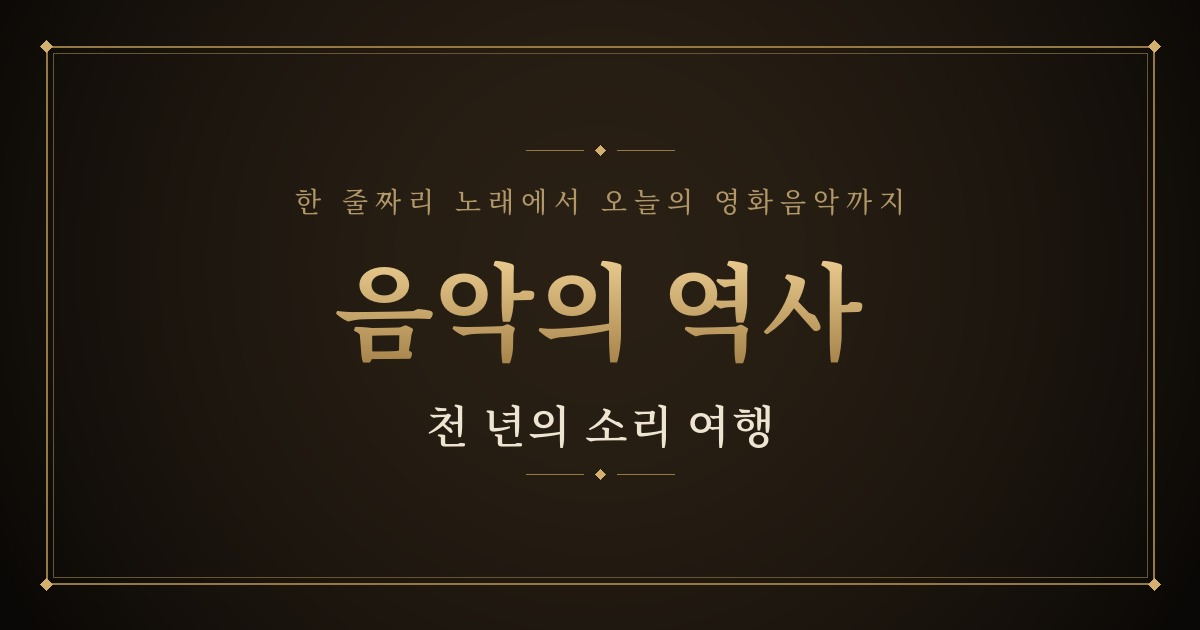
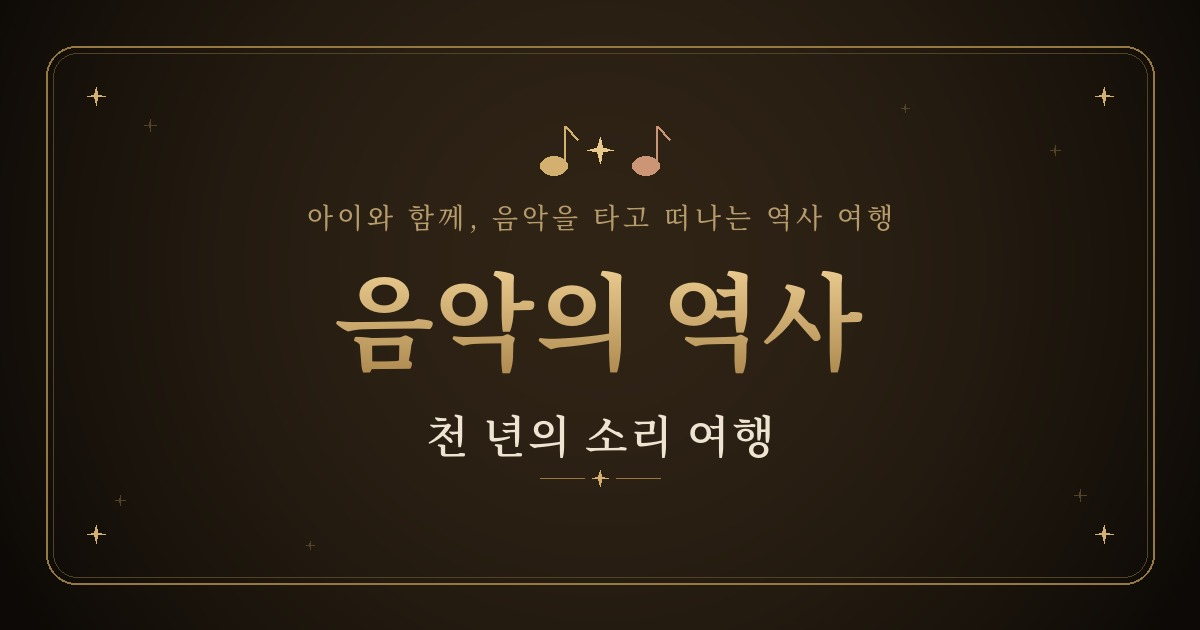
Add files via upload

diff --git a/index.html b/index.html
@@ -92,6 +92,12 @@
   .page-turn .pt-text{display:flex;flex-direction:column;line-height:1.3;text-align:center}
   .page-turn .pt-label{font-family:var(--serif-ko);font-size:11px;letter-spacing:.24em;color:var(--gold)}
   .page-turn .pt-title{font-family:var(--serif-ko);font-size:15px;color:var(--cream);margin-top:2px}
+  .booknav{display:flex;justify-content:center;flex-wrap:wrap;gap:8px;margin:0 auto 30px;max-width:600px}
+  .booknav .bn{font-family:var(--serif-ko);font-size:12.5px;color:var(--cream-dim);text-decoration:none;padding:7px 15px;border:1px solid var(--line-soft);border-radius:100px;background:rgba(201,162,91,0.04);transition:border-color .3s,background .3s,color .3s;white-space:nowrap}
+  .booknav .bn b{font-family:var(--serif-la);color:var(--gold);font-weight:600;margin-right:4px}
+  .booknav a.bn:hover{border-color:var(--gold-deep);background:rgba(201,162,91,0.1);color:var(--cream)}
+  .booknav .bn.cur{background:linear-gradient(180deg,rgba(201,162,91,0.18),rgba(201,162,91,0.05));border-color:var(--gold-deep);color:var(--cream)}
+  .booknav .bn.cur b{color:var(--gold-bright)}
   .howto-wrap{text-align:center;margin-top:34px}
   .howto{font-size:13px;color:var(--muted);text-align:center;margin:0 auto;padding:12px 18px;border:1px solid var(--line-soft);border-radius:100px;display:inline-block}
   .howto b{color:var(--gold);font-weight:500}
@@ -209,21 +215,42 @@
   .dl-btn:hover{background:rgba(201,162,91,0.16);border-color:var(--gold-deep);color:var(--gold-bright)}
   .dl-note{font-size:11px;color:var(--muted);margin-top:10px;line-height:1.7}
   @media print{
+    @page{margin:14mm}
     body{background:#fff!important}
     body::before,body::after{display:none!important}
-    .dl-bar,.page-turn,.howto-wrap,.memorial-tag,.ch-toggle,.eq,.pseek,.pcontrols,.player,.player-slot,.deep-more,.thumb,.ornament{display:none!important}
-    .wrap{max-width:none;padding:0}
-    .wrap, .wrap *{color:#2a2118!important;text-shadow:none!important;background:transparent!important}
-    .ch-latin,.ch-ko,.foot-quote .big,.ask-h,.bridge-go,.tracks-label,.concept-cap{color:#7a5a1f!important}
+    /* 공통: 인터랙션·영상·장식 숨김 */
+    .booknav,.dl-bar,.page-turn,.howto-wrap,.memorial-tag,.ch-toggle,.eq,.player,.player-slot,.thumb,.t-media,.t-title,.ornament,.ov-video,.ribbon,.reveal-btn,.mw-echo,.mywrite{display:none!important}
+    .wrap{max-width:none!important;padding:0!important}
+    .wrap,.wrap *{color:#2a2118!important;text-shadow:none!important;background:transparent!important}
+    .ch-latin,.ch-ko,.foot-quote .big,.q-cat,.bridge-go,.ov-title,.joy,.concept-cap,.thought-by{color:#7a5a1f!important}
+    .era-meta,.em-years{color:#8a6a30!important}
+    .t-sub{color:#5f5038!important}
     .tracks{max-height:none!important;overflow:visible!important}
-    .deep-detail{max-height:none!important;overflow:visible!important}
+    .reveal{max-height:none!important;overflow:visible!important}
+    .hint-text{max-height:none!important;overflow:visible!important}
     .chapter{break-inside:avoid}
-    .deep-inner,.ask,.bridge,.concept{border-color:#c9a25b!important}
-    .t-sub{color:#6a5a40!important}
-    .concept{background:#faf6ee!important}
-    body.cardmode header .epigraph,body.cardmode .intro,body.cardmode .latin-title,body.cardmode .thought,body.cardmode footer{display:none!important}
-    body.cardmode .chapter{page-break-after:always;border:2px solid #c9a25b;border-radius:16px;padding:30px 26px;margin:0}
-    body.cardmode .t-media{display:none}
+    .qcard{break-inside:avoid;border:1px solid #e3d6b8!important;border-radius:10px;padding:12px 15px;margin:0 0 12px}
+    .track{display:flex!important;border:0!important;padding:3px 0!important;cursor:default}
+    .concept{background:#faf6ee!important;border:1px solid #e3d6b8!important;break-inside:avoid}
+    .concept svg text{fill:#6a542f!important}
+    .bridge{border:1px solid #c9a25b!important}
+    /* 읽기 자료: 질문 + 펼친 답까지, 쭉 읽는 소책자 */
+    body.readmode .hints{display:none!important}
+    body.readmode .q-hook{font-weight:600}
+    /* 시대 카드: 한 장에 한 시대 · 요약 + 질문 + 들을거리 (답은 숨김) */
+    body.cardmode header,body.cardmode .thought,body.cardmode .overview,body.cardmode footer{display:none!important}
+    body.cardmode .reveal,body.cardmode .hints,body.cardmode .joy,body.cardmode .bridge{display:none!important}
+    body.cardmode .chapter{page-break-after:always;break-inside:avoid;border:2px solid #c9a25b;border-radius:18px;padding:30px 30px;margin:0 auto;max-width:660px}
+    body.cardmode .chapter:last-of-type{page-break-after:auto}
+    body.cardmode .ch-head{display:block!important;text-align:center;border:0!important;padding:0!important}
+    body.cardmode .ch-num{display:block!important;margin:0 auto 4px!important;font-size:54px!important;line-height:1!important;width:auto!important;height:auto!important;min-width:0!important;border:0!important;border-radius:0!important;background:none!important;box-shadow:none!important;color:#b88a2e!important}
+    body.cardmode .ch-body{text-align:center}
+    body.cardmode .era-mood{font-size:15px!important;margin-top:6px}
+    body.cardmode .tracks-inner{margin-top:16px;text-align:left}
+    body.cardmode .qcard{border:0!important;border-top:1px dashed #dccba6!important;border-radius:0;padding:9px 2px;margin:0}
+    body.cardmode .qcard:first-child{border-top:0!important}
+    body.cardmode .q-cat{font-size:11.5px!important}
+    body.cardmode .q-hook{font-size:13.5px!important}
   }
   .qcard{margin:0 4px 18px;padding:16px 15px 13px;border:1px solid var(--line-soft);border-radius:14px;background:rgba(20,16,11,.30)}
   .q-cat{font-family:var(--serif-la);font-style:italic;font-size:12px;letter-spacing:.06em;color:var(--rose);margin-bottom:7px}
@@ -289,13 +316,18 @@
 </head>
 <body>
 <div class="wrap">
+  <nav class="booknav" aria-label="장 이동">
+    <a class="bn" href="https://pagodream.github.io/hismusic/jaehoon-music.html"><b>1장</b> 사랑한 음악</a>
+    <span class="bn cur"><b>2장</b> 음악의 역사</span>
+    <a class="bn" href="https://pagodream.github.io/moviemusic/"><b>3장</b> 영화음악</a>
+  </nav>
   <header>
     <div class="memorial-tag">고문님의 방식으로, 아이들에게 · 2장</div>
     <div class="ornament"><span class="l"></span><span class="d"></span><span class="r"></span></div>
     <div class="latin-title">A Thousand Years of Music</div>
-    <h1>음악의 역사<br>천 년의 소리 여행<span class="small">— 한 줄짜리 노래에서 오늘의 영화음악까지 —</span></h1>
-    <p class="epigraph"><span class="q">&ldquo;</span>한 줄짜리 노래가 어떻게 오늘의 영화음악이 되었을까.<span class="q">&rdquo;</span></p>
-    <p class="intro">음악은 글자보다도 먼저, 사람과 함께 태어났어요. 고대에는 악보가 거의 남지 않아 그 소리를 직접 들을 순 없지만, 음악이 어떻게 시작됐는지부터 이야기를 엽니다. 한 줄짜리 노래가 여러 가락으로 어우러지고, 화려해졌다가, 깔끔해지고, 감정으로 차오르고, 마침내 갈래로 나뉘어 오늘의 영화음악까지 — 음악사의 흐름을 시대별로 함께 따라가 봅니다.</p>
+    <h1>음악의 역사<br>천 년의 소리 여행<span class="small">— 아이와 함께, 음악을 타고 떠나는 역사 여행 —</span></h1>
+    <p class="epigraph"><span class="q">&ldquo;</span>아주 먼 옛날 사람들은, 어떤 노래를 불렀을까?<span class="q">&rdquo;</span></p>
+    <p class="intro">음악은 글자보다도 먼저, 사람과 함께 태어났어요. 고대에는 악보가 거의 남지 않아 그 소리를 직접 들을 순 없지만, 음악이 어떻게 시작됐는지부터 살며시 이야기를 엽니다. 한 줄짜리 노래가 여러 가락으로 어우러지고, 화려해졌다가, 깔끔해지고, 감정으로 차오르며 자라나는 천 년의 이야기. 아이와 함께 한 시대씩, 귀 기울이며 천천히 따라가 봐요.</p>
   </header>
 
   <section class="thought">
@@ -308,7 +340,7 @@
     <div class="dl-bar">
       <button class="dl-btn" onclick="printMode('read')">🖨 읽기 자료로 저장 (PDF)</button>
       <button class="dl-btn" onclick="printMode('card')">🃏 시대 카드로 저장 (PDF)</button>
-      <div class="dl-note">버튼을 누르면 인쇄 창이 떠요. ‘대상’을 <b>PDF로 저장</b>으로 고르면 파일로 받을 수 있어요. (PC에서 가장 잘 됩니다.)</div>
+      <div class="dl-note"><b>읽기 자료</b>는 질문과 답이 함께 담긴 소책자, <b>시대 카드</b>는 한 장에 한 시대씩 ‘질문 + 들어볼 곡’만 담은 활동 카드예요. 버튼을 누르면 인쇄 창이 떠요. ‘대상’을 <b>PDF로 저장</b>으로 고르면 파일로 받습니다. (PC에서 가장 잘 됩니다.)</div>
     </div>
   </section>
 
@@ -328,9 +360,8 @@
   <footer>
     <p class="foot-quote"><span class="big">한 줄짜리 노래에서<br>천 년의 음악이 자랐습니다.</span>그리고 그 끝이, 바로<br>아이가 오늘 듣는 음악과 맞닿아 있어요.</p>
     <div class="ornament foot-orn"><span class="l"></span><span class="d"></span><span class="r"></span></div>
-    <div class="foot-name">음악의 역사 · 2장 (시범판)</div>
+    <div class="foot-name">음악의 역사 · 2장</div>
     <div class="foot-date">마더클럽</div>
-    <div class="maker">아이들의 지적 호기심을 위해, 만든이 <a href="https://www.youtube.com/@pagodream" target="_blank" rel="noopener">파고드림</a></div>
     <a class="page-turn next" href="https://pagodream.github.io/moviemusic/">
       <span class="pt-text"><span class="pt-label">다 음 장</span><span class="pt-title">영화음악 타임머신</span></span>
       <span class="pt-arrow">→</span>
@@ -339,6 +370,7 @@
       <span class="pt-arrow">←</span>
       <span class="pt-text"><span class="pt-label">이 전 장</span><span class="pt-title">이재훈 고문님이 사랑한 음악</span></span>
     </a>
+    <div class="maker">아이들의 지적 호기심을 위해, 만든이 <a href="https://www.youtube.com/@pagodream" target="_blank" rel="noopener">파고드림</a></div>
   </footer>
 </div>
 
@@ -668,8 +700,8 @@ function updatePlayBtn(state){const el=progEls();if(!el||!el.play)return;el.play
 function refit(tracksBox){if(tracksBox.closest('.chapter').classList.contains('open'))tracksBox.style.maxHeight=(tracksBox.scrollHeight+1400)+'px';}
 function printMode(mode){
   document.body.classList.add(mode==='card'?'cardmode':'readmode');
-  document.querySelectorAll('.chapter').forEach(function(c){c.classList.add('open','deep-open');});
-  setTimeout(function(){ window.print(); },350);
+  document.querySelectorAll('.chapter').forEach(function(c){c.classList.add('open');});
+  setTimeout(function(){ window.print(); },300);
 }
 window.addEventListener('afterprint',function(){document.body.classList.remove('cardmode','readmode');});
 buildAlbum();
